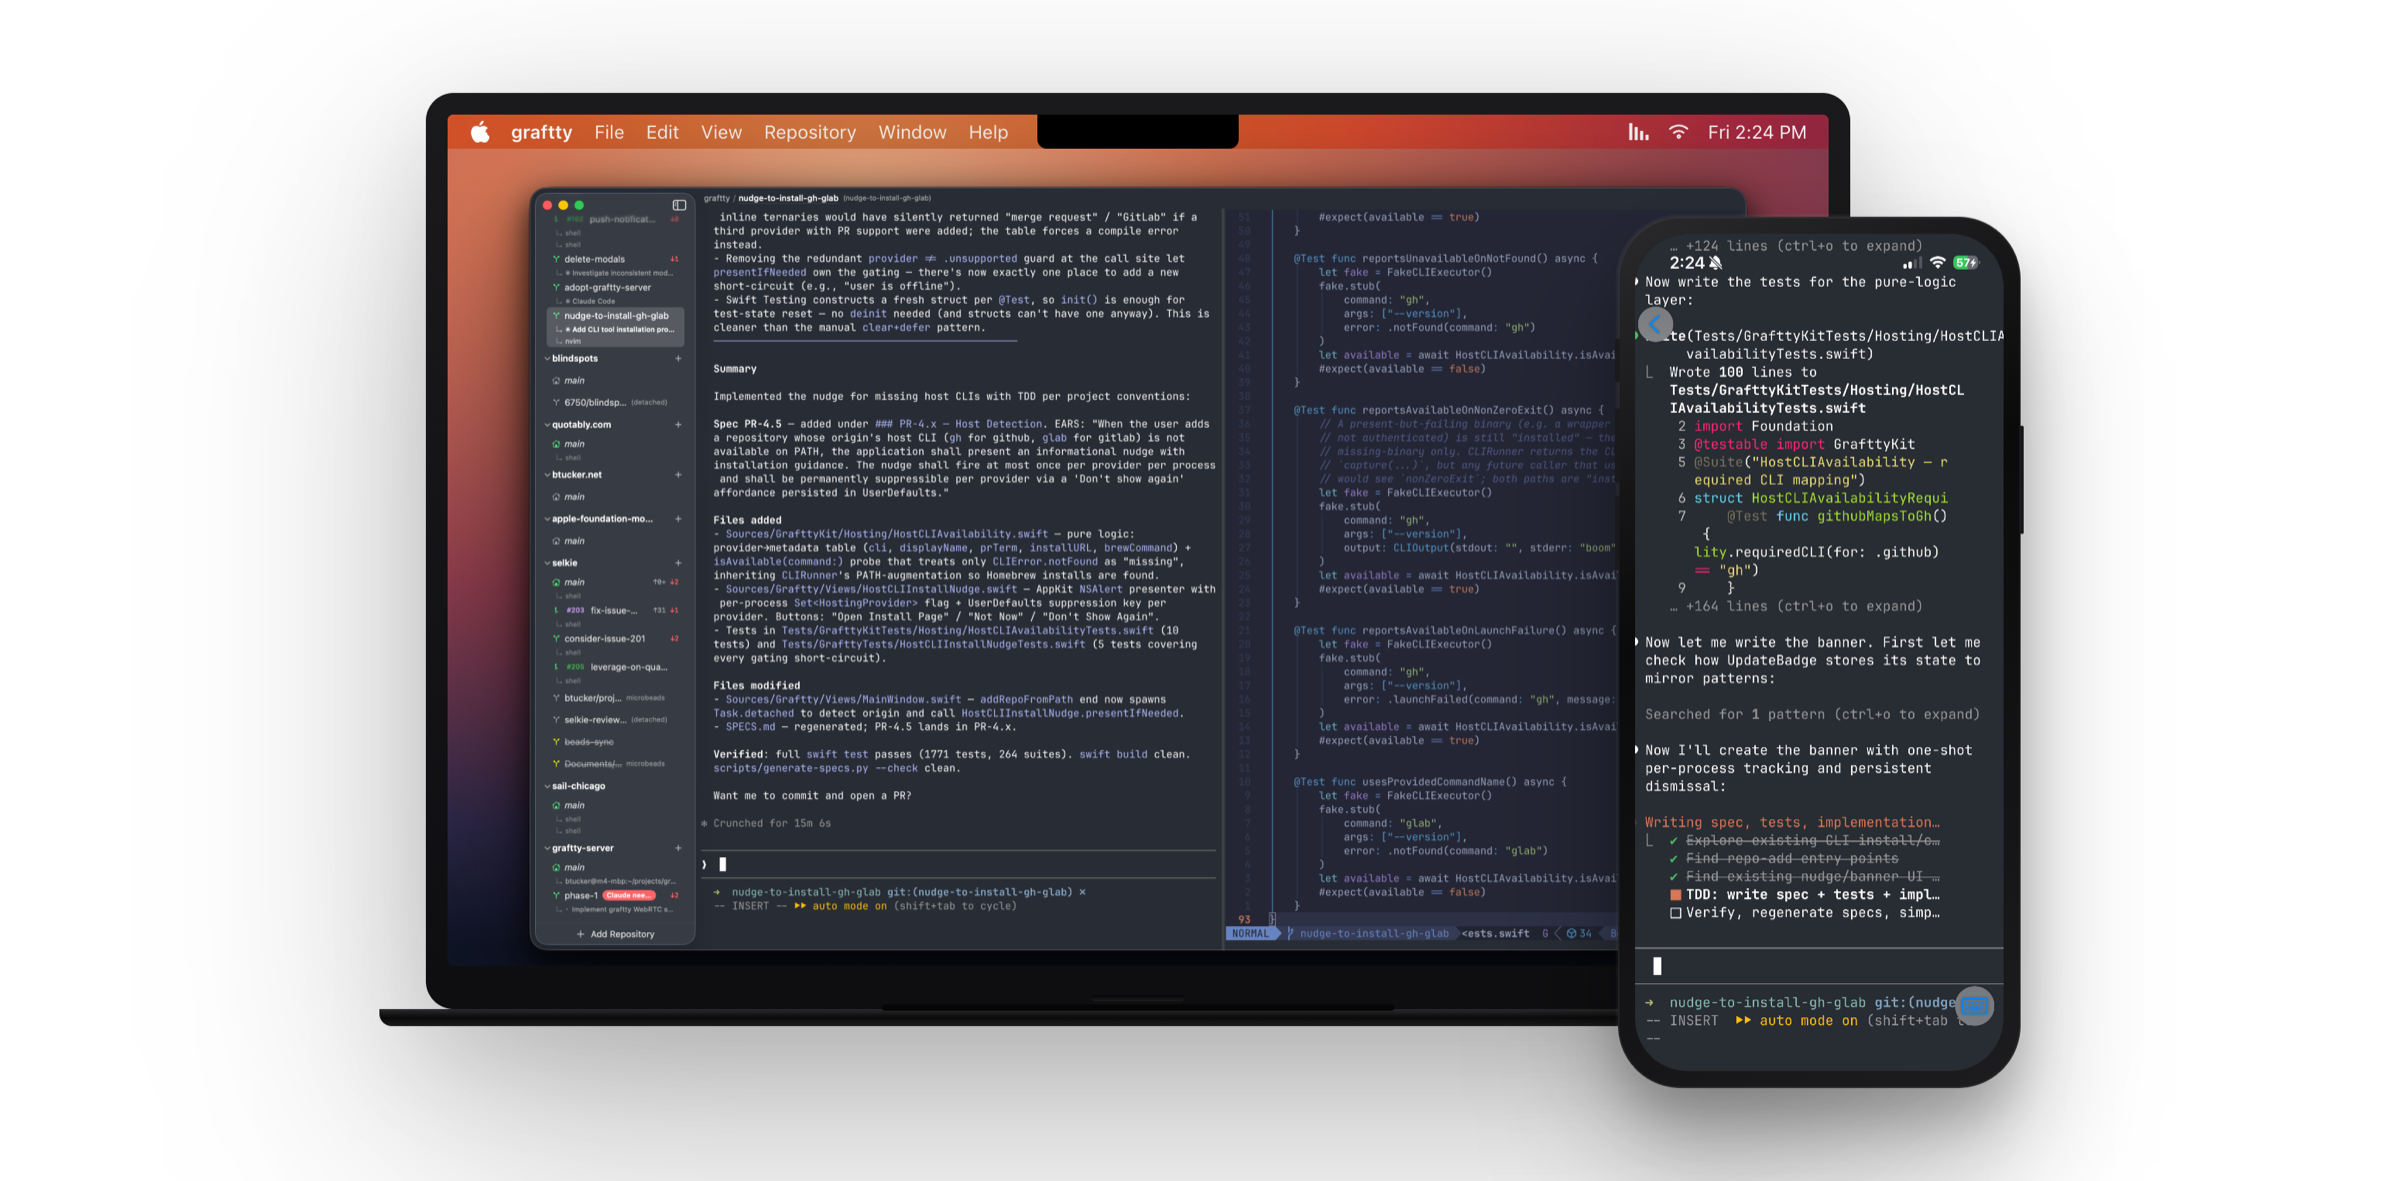
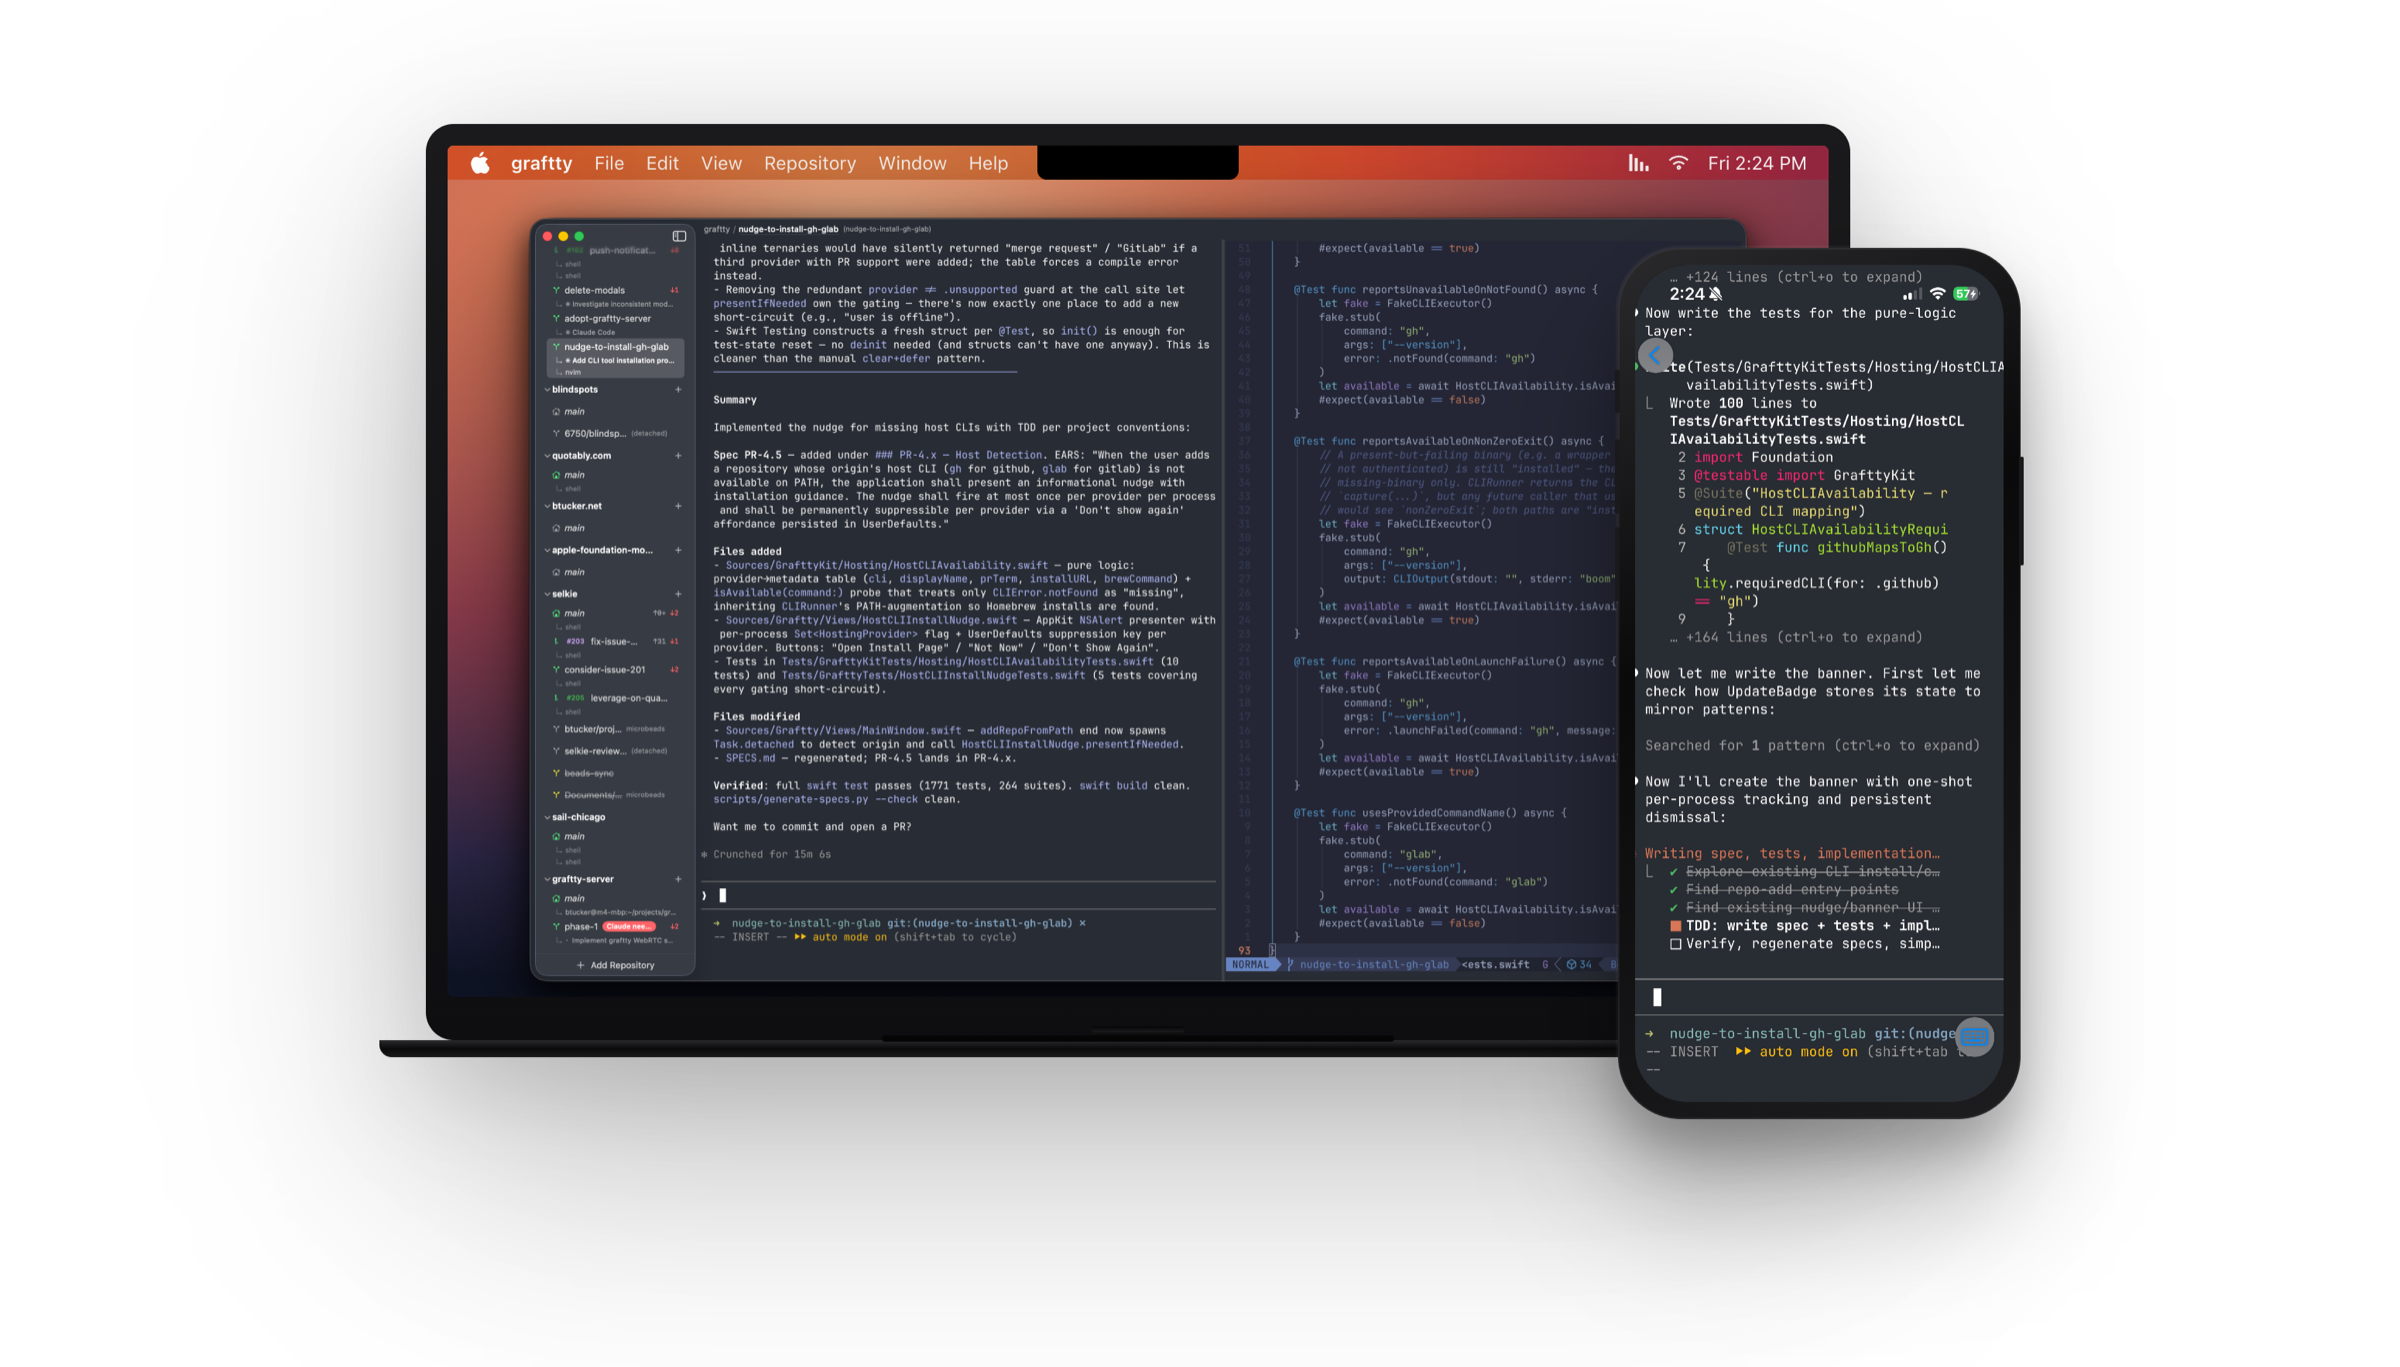
fix(readme): feather hero shadow and place after intro
- Re-render with extra padding so MacBook + iPhone drop-shadows fully
  fade out within the screenshot bounding box (no sharp bottom edge).
- Move the hero below the intro paragraph (before "Installing"),
  matching the original screenshot placement; keep the app icon as
  the leading 128px brand mark.

Changed region(s): [[0.1562, 0.061, 0.875, 1.0]]

diff --git a/README.md b/README.md
@@ -1,9 +1,5 @@
 <p align="center">
-  <img src="docs/hero.png" alt="Graftty on macOS in a MacBook Pro frame, with Graftty for iOS in an iPhone frame overlapping front-right" width="1200" />
-</p>
-
-<p align="center">
-  <img src="Resources/AppIcon.png" alt="Graftty app icon" width="96" />
+  <img src="Resources/AppIcon.png" alt="Graftty app icon" width="128" />
 </p>
 
 # Graftty
@@ -11,6 +7,10 @@
 A macOS worktree-aware terminal multiplexer built on [libghostty](https://ghostty.org) & [zmx.sh](https://zmx.sh/).
 
 Graftty organizes persistent terminal sessions by git worktree. Each worktree in your sidebar has its own split layout of terminals that stay alive across worktree switches, and a CLI (`graftty`) lets running processes interact with the Graftty UI.
+
+<p align="center">
+  <img src="docs/hero.png" alt="Graftty on macOS in a MacBook Pro frame, with Graftty for iOS in an iPhone frame overlapping front-right" width="1200" />
+</p>
 
 ## Installing
 
